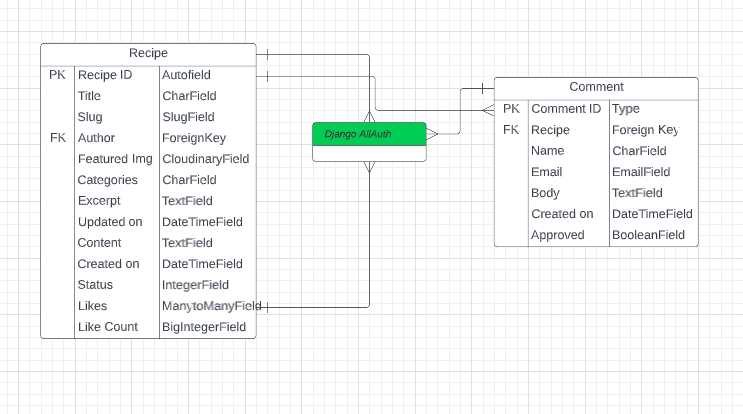
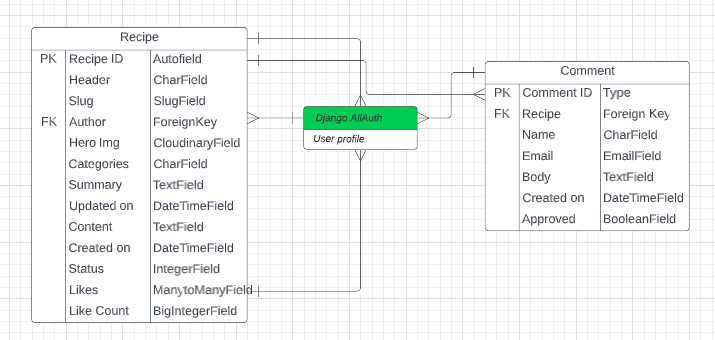
Changes to recipe model for clarity

diff --git a/templates/index.html b/templates/index.html
@@ -23,19 +23,19 @@
                     <div class="card mb-4">
                         <div class="card-body">
                             <div class="image-container">
-                                {% if "placeholder" in recipe.featured_image.url %}
+                                {% if "placeholder" in recipe.hero_image.url %}
                                 <img class="card-img-top" src= "../static/images/image_bk.jpg" alt="Collection of meditation stones">
                                 {% else %}
-                                <img class="card-img-top" src=" {{ recipe.featured_image.url }}" alt="Image for post">
+                                <img class="card-img-top" src=" {{ recipe.hero_image.url }}" alt="Image for post">
                                 {% endif %}
                                 <div class="image-flash">
                                     <p class="author">Author: {{ recipe.author }}</p>
                                 </div>
                             </div>
                             <a href="{% url 'recipe_detail' recipe.slug  %}" aria-label="Go to full post" class="post-link">
-                                <h2 class="card-title">{{ recipe.title }}</h2>
+                                <h2 class="card-title">{{ recipe.header }}</h2>
                                 <p class="card-text">{{ recipe.categories }}</p>
-                                <p class="card-text">{{ recipe.excerpt }}</p>
+                                <p class="card-text">{{ recipe.summary }}</p>
                             </a>
                             <hr>
                             <p class="card-text h6">{{ recipe.created_on}} <i class="far fa-heart"></i>

diff --git a/templates/search.html b/templates/search.html
@@ -15,19 +15,19 @@
                     <div class="card mb-4">
                         <div class="card-body">
                             <div class="image-container">
-                                {% if "placeholder" in recipe.featured_image.url %}
+                                {% if "placeholder" in recipe.hero_image.url %}
                                 <img class="card-img-top" src= "../static/images/image_bk.jpg" alt="Collection of meditation stones">
                                 {% else %}
-                                <img class="card-img-top" src=" {{ recipe.featured_image.url }}">
+                                <img class="card-img-top" src=" {{ recipe.hero_image.url }}">
                                 {% endif %}
                                 <div class="image-flash">
                                     <p class="author">Author: {{ recipe.author }}</p>
                                 </div>
                             </div>
                             <a href="{% url 'recipe_detail' recipe.slug  %}" aria-label="Go to full post" class="post-link">
-                                <h2 class="card-title">{{ recipe.title }}</h2>
+                                <h2 class="card-title">{{ recipe.header }}</h2>
                                 <p class="card-text">{{ recipe.categories }}</p>
-                                <p class="card-text">{{ recipe.excerpt }}</p>
+                                <p class="card-text">{{ recipe.summary }}</p>
                             </a>
                             <hr />
                             <p class="card-text text-muted h6">{{ recipe.created_on}} <i class="far fa-heart"></i>

diff --git a/templates/recipe_detail.html b/templates/recipe_detail.html
@@ -11,14 +11,14 @@
     <div class="container">
         <div class="row g-0">
             <div class="col-md-6 masthead-text">
-                <h1 class="recipe-title">{{recipe.title}}</h1>
+                <h1 class="recipe-title">{{recipe.header}}</h1>
                 <p class="author"> {{recipe.author}}|{{recipe.created_on}}</p>
             </div>
             <div class="d-md-block col-md-6 masthead-image">
-                {% if "placeholder" in recipe.featured_image.url %}
+                {% if "placeholder" in recipe.hero_image.url %}
                 <img src="../static/images/image_bk.jpg" alt= "Collection of meditation stones" width="100%">
                 {% else %}
-                <img src="{{recipe.featured_image.url}}" alt= 'Featured image for post' width="100%">
+                <img src="{{recipe.hero_image.url}}" alt= 'Featured image for post' width="100%">
                 {% endif %}
             </div>
         </div>

diff --git a/recipes/models.py b/recipes/models.py
@@ -16,15 +16,15 @@ CATEGORY_CHOICES = (
 
 
 class Recipe(models.Model):
-    title = models.CharField(max_length=200, unique=True)
+    header = models.CharField(max_length=200, unique=True)
     slug = models.SlugField(max_length=200, unique=True)
     author = models.ForeignKey(
         User, on_delete=models.CASCADE, related_name="recipe_posts"
         )
-    featured_image = CloudinaryField('image', default='placeholder')
+    hero_image = CloudinaryField('image', default='placeholder')
     categories = models.CharField(
         max_length=50, choices=CATEGORY_CHOICES, default="Meditation")
-    excerpt = models.TextField(blank=True)
+    summary = models.TextField(blank=True)
     updated_on = models.DateTimeField(auto_now=True)
     content = models.TextField()
     created_on = models.DateTimeField(auto_now_add=True)
@@ -37,7 +37,7 @@ class Recipe(models.Model):
         ordering = ["-created_on"]
 
     def __str__(self):
-        return self.title
+        return self.header
 
     def number_of_likes(self):
         return self.likes.count()

diff --git a/recipes/migrations/0005_auto_20230309_1554.py b/recipes/migrations/0005_auto_20230309_1554.py
@@ -1,0 +1,28 @@
+# Generated by Django 3.2.17 on 2023-03-09 15:54
+
+from django.db import migrations
+
+
+class Migration(migrations.Migration):
+
+    dependencies = [
+        ('recipes', '0004_auto_20230223_1707'),
+    ]
+
+    operations = [
+        migrations.RenameField(
+            model_name='recipe',
+            old_name='title',
+            new_name='header',
+        ),
+        migrations.RenameField(
+            model_name='recipe',
+            old_name='featured_image',
+            new_name='hero_image',
+        ),
+        migrations.RenameField(
+            model_name='recipe',
+            old_name='excerpt',
+            new_name='summary',
+        ),
+    ]

diff --git a/recipes/admin.py b/recipes/admin.py
@@ -6,10 +6,10 @@ from django_summernote.admin import SummernoteModelAdmin
 @admin.register(Recipe)
 class RecipeAdmin(SummernoteModelAdmin):
 
-    list_display = ('title', 'slug', 'status', 'created_on')
-    search_fields = ['title', 'content']
+    list_display = ('header', 'slug', 'status', 'created_on')
+    search_fields = ['header', 'content']
     list_filter = ('status', 'created_on')
-    prepopulated_fields = {'slug': ('title',)}
+    prepopulated_fields = {'slug': ('header',)}
     summernote_fields = ('content',)
 
 
